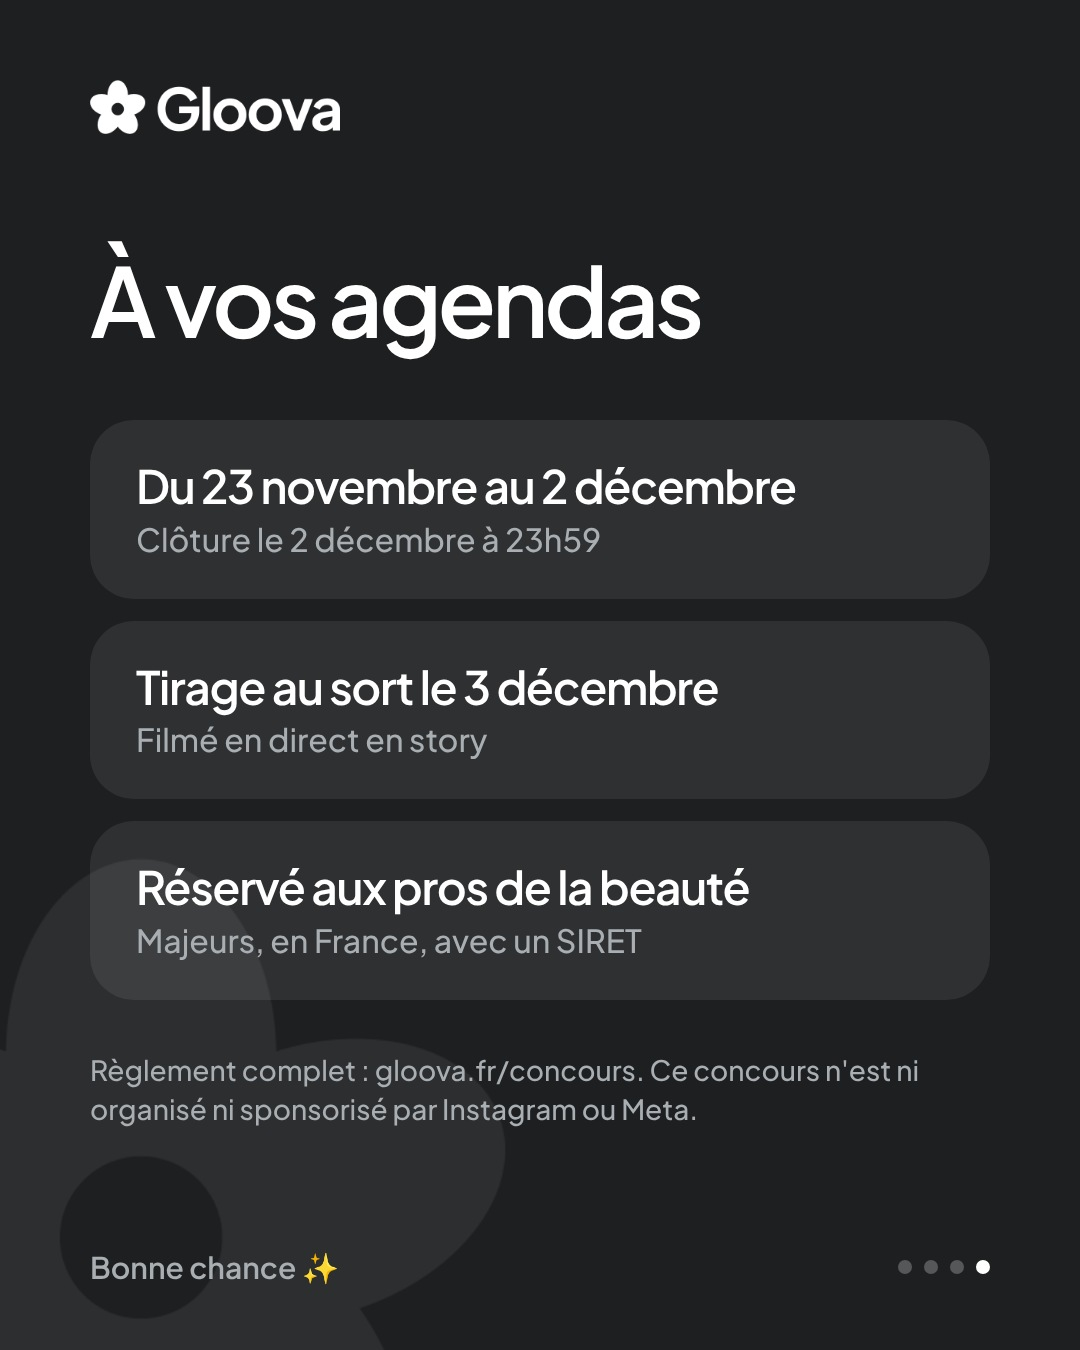
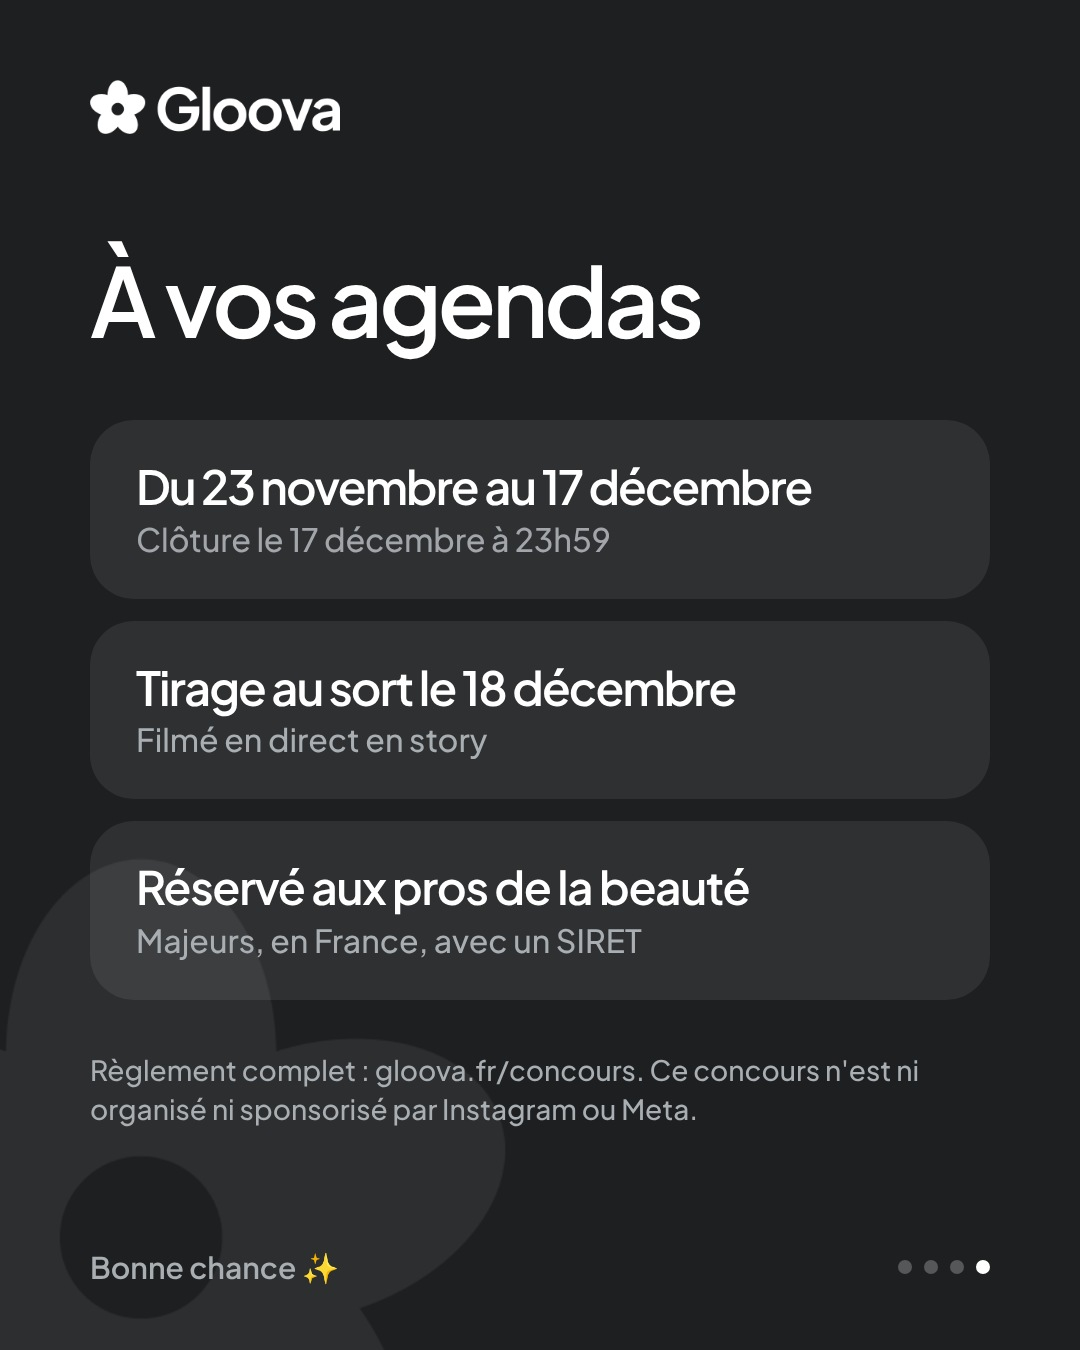
Concours Gloova prolongé au 17 décembre : visuel 4, story de relance, textes
Claude-Session: https://claude.ai/code/session_01E8XEWGzhSfx9YHZJ3SVc6i

diff --git a/concours/gloova-2026/textes-a-publier.md b/concours/gloova-2026/textes-a-publier.md
@@ -1,6 +1,6 @@
 # Concours Gloova : textes à publier
 
-Dates : du lundi 23 novembre 2026 (9h) au mercredi 2 décembre 2026 (23h59). Tirage au sort le jeudi 3 décembre 2026.
+Dates : du lundi 23 novembre 2026 (9h) au jeudi 17 décembre 2026 (23h59). Tirage au sort le vendredi 18 décembre 2026.
 Lots : 1er = 1 an de Gloova Ultra + bon d'achat pro de 100 € ; 2e = 6 mois de Pro+ ; 3e = 3 mois de Pro+ ; 4e = 1 mois de Pro+.
 Règlement : gloova.fr/concours
 
@@ -14,10 +14,11 @@ Règlement : gloova.fr/concours
 | Lun. 23 nov. 9h | Story lancement, avec le post partagé dessus | gloova-concours-story-3-lancement.jpg |
 | Lun. 23 nov. 18h | Reel du concours + légende Reel | gloova-concours-reel.mp4 |
 | Mar. 24 nov. | Story « chance en plus » avec sticker lien vers gloova.fr | gloova-concours-story-4-bonus.jpg |
-| 25 au 29 nov. | Une story par jour : une des vidéos pubs (dossier avec-musique) ou une réponse à un commentaire | — |
-| Lun. 30 nov. | Story « Plus que 3 jours » | gloova-concours-story-5-rappel.jpg |
-| Mer. 2 déc. | Story « Dernier jour » | gloova-concours-story-6-dernier-jour.jpg |
-| Jeu. 3 déc. | Tirage filmé en story, puis story des gagnantes (après leur accord) | gloova-concours-story-7-resultats.jpg |
+| 25 nov. au 13 déc. | Stories vidéo Gloova (pubs avec musique), environ une tous les deux jours, publiées par l'outil | — |
+| Lun. 30 nov., ven. 4 déc., jeu. 10 déc. | Story de relance « Il est encore temps ! », avec le post partagé dessus | gloova-concours-story-relance.jpg |
+| Lun. 14 déc. | Story « Plus que 3 jours » | gloova-concours-story-5-rappel.jpg |
+| Jeu. 17 déc. | Story « Dernier jour » | gloova-concours-story-6-dernier-jour.jpg |
+| Ven. 18 déc. | Tirage filmé en story, puis story des gagnantes (après leur accord) | gloova-concours-story-7-resultats.jpg |
 
 Pendant tout le concours : répondre à chaque commentaire dans l'heure si possible.
 
@@ -39,7 +40,7 @@ Pour participer :
 
 ✨ Une chance en plus : créez votre compte gratuit sur gloova.fr (lien en bio) et partagez votre page de réservation en story en mentionnant @gloova_beauty.
 
-📅 Jusqu'au 2 décembre à 23h59. Tirage au sort le 3 décembre, en story.
+📅 Jusqu'au 17 décembre à 23h59. Tirage au sort le 18 décembre, en story.
 
 Réservé aux pros de la beauté majeurs établis en France (SIRET). Participation gratuite, sans obligation d'achat. Règlement complet : gloova.fr/concours. Ce concours n'est ni organisé ni sponsorisé par Instagram ou Meta.
 
@@ -47,7 +48,7 @@ Réservé aux pros de la beauté majeurs établis en France (SIRET). Participati
 
 ## Légende du Reel
 
-Pros de la beauté, ce concours est pour vous 🎁 1 an de Gloova Ultra + un bon d'achat pro de 100 € à gagner, et 3 autres lots. Pour participer, rendez-vous sur notre post concours 👉 @gloova_beauty. Jusqu'au 2 décembre. Règlement : gloova.fr/concours. Ni organisé ni sponsorisé par Instagram ou Meta.
+Pros de la beauté, ce concours est pour vous 🎁 1 an de Gloova Ultra + un bon d'achat pro de 100 € à gagner, et 3 autres lots. Pour participer, rendez-vous sur notre post concours 👉 @gloova_beauty. Jusqu'au 17 décembre. Règlement : gloova.fr/concours. Ni organisé ni sponsorisé par Instagram ou Meta.
 
 #estheticienne #onglerie #institutdebeaute #jeuconcours #gloova
 

diff --git a/outil/PUBLIER.md b/outil/PUBLIER.md
@@ -89,7 +89,7 @@ Décidé par Karim : l'outil propose une réponse, **Karim la valide** dans la p
 2. **Relever les nouveaux commentaires** : `get_data`, connector `instagram`, accounts = ceux de `radar` et `jbkt`,
    fields = `["account_id","media_id","media_permalink","media_caption","comment_id","comment_text","comment_username","comment_timestamp","comment_parent_id"]`,
    date_preset = `last_30d` (la date est celle de la publication, pas du commentaire).
-   Du 23 novembre au 3 décembre 2026 inclus, ajouter le compte `gloova` (voir « Concours Gloova » plus bas).
+   Du 23 novembre au 18 décembre 2026 inclus, ajouter le compte `gloova` (voir « Concours Gloova » plus bas).
    Garder les lignes qui ont un `comment_id`, dont l'auteur n'est pas le compte lui-même (`radar_vtc`, `jbktsolutionsdigitales`, `gloova_beauty`)
    et qui n'existent pas encore dans `comments` (même id). Ignorer les commentaires de plus de 7 jours.
 3. Pour chaque nouveau commentaire, créer `comments/<comment_id>` (db_write `set`) :
@@ -102,7 +102,7 @@ Décidé par Karim : l'outil propose une réponse, **Karim la valide** dans la p
    - spam, insulte ou pub : `reply` = `""` et `status` = `ignored` directement.
 5. Résumer : réponses publiées, nouveaux commentaires à valider.
 
-### Concours Gloova (23 nov. → 3 déc. 2026) : réponses automatiques
+### Concours Gloova (23 nov. → 18 déc. 2026) : réponses automatiques
 
 Décidé par Karim : sur le post du concours (document `contents/concours-gloova-carrousel`, son `instagram_media_id`)
 et sur le reel du concours (`contents/concours-gloova-reel`), les **participations** reçoivent une réponse courte
